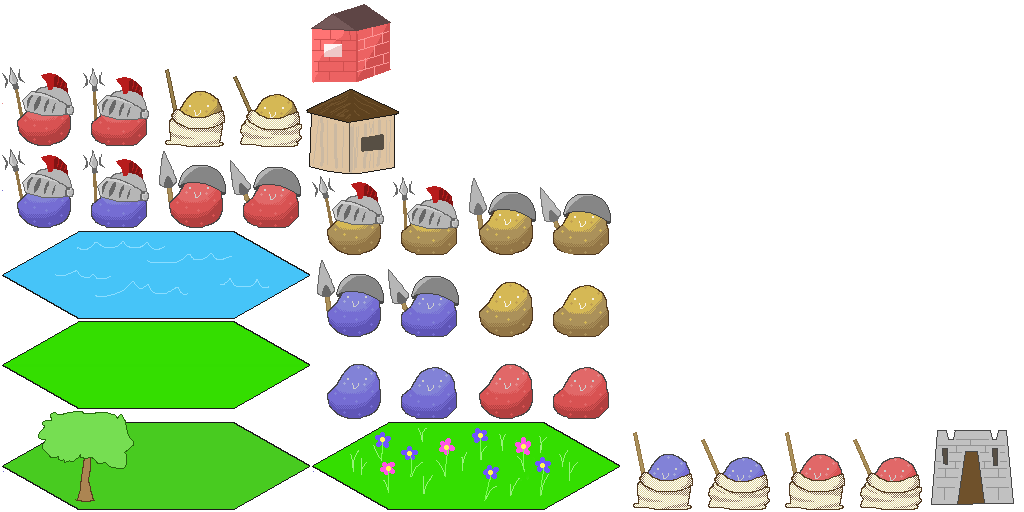
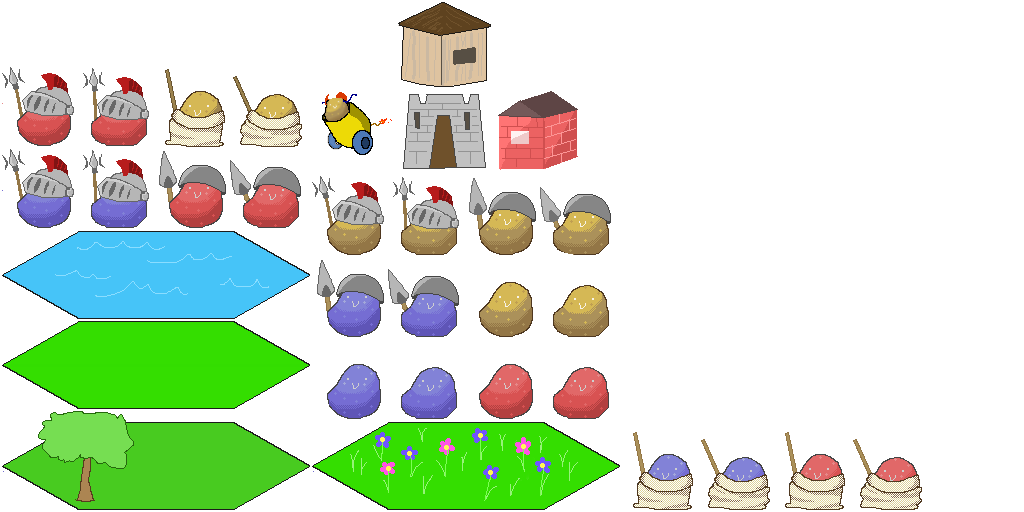
cannon

Changed region(s): [[0.2812, 0.0, 0.5625, 0.3438], [0.9062, 0.8125, 1.0, 1.0]]

diff --git a/core/src/com/potatoes/cultivation/screens/HUD.java b/core/src/com/potatoes/cultivation/screens/HUD.java
@@ -75,7 +75,7 @@ public class HUD extends Stage{
 		
 		batch.begin();
 		if (villageType!=null) {
-			font.draw(batch, "Village: " + villageType + ", Gold: " + goldCount + ", Logs " + logCount, - this.width/2, this.height/2);
+			font.draw(batch, "Village: " + villageType + ", Gold: " + goldCount + ", Logs " + logCount+ " \t Turn of : "+game.GAMEMANAGER.getGame().turnOf(), - this.width/2, this.height/2);
 		} else {
 			font.draw(batch, "Click on a region to do an action", - this.width/2, this.height/2);
 		}

diff --git a/core/src/com/potatoes/cultivation/screens/InGame.java b/core/src/com/potatoes/cultivation/screens/InGame.java
@@ -244,7 +244,7 @@ public class InGame extends ScreenAdapter {
 								+ colour.toLowerCase();
 					}
 					System.out.println("Potato name " + name);
-
+					name = "potatoe_yellow_cannon";
 					PotatoImage potatoImage = new PotatoImage(atlas.findRegion(name),
 							potatosan, click, colour.toLowerCase());
 					tileGroup.addActor(potatoImage);
